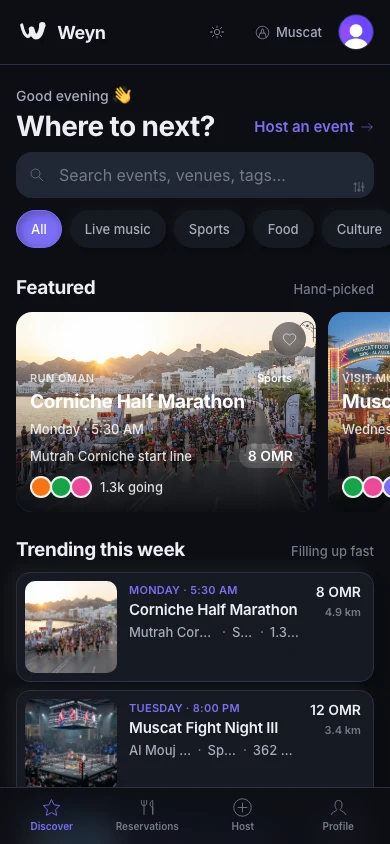
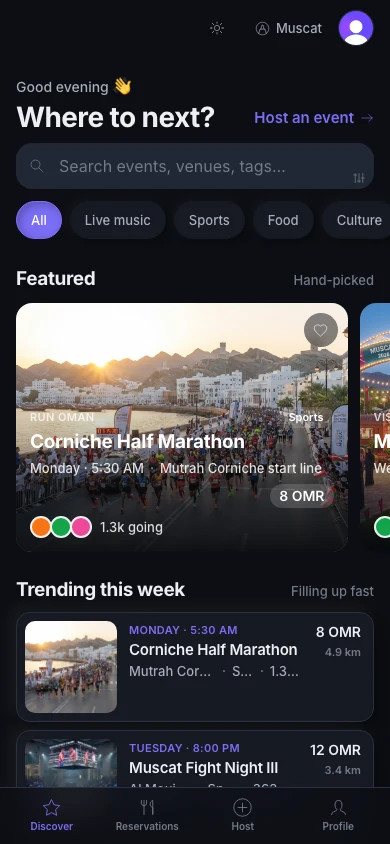
Remove redundant top branding bar, fix PWA bottom-space bug, enlarge featured card
- Drop the "Weyn" wordmark bar from Discover/Reservations — redundant once
  the app is installed to a homescreen, and it was costing real vertical
  space above the fold. Kept the essential controls (theme/city/profile) in
  a slimmer, unbranded bar.
- Fix .shell's bottom padding: it estimated the tab bar's height with a
  flat 76px + the FULL safe-area inset, while .tabs itself only reserves
  max(6px, inset - 12px) of that inset. On a notched/PWA-installed device
  this double-counted ~38px, showing as empty space below the tab bar.
  Rewrote the padding formula to mirror .tabs's real height exactly.
- Size the featured card to min(85vw, 360px) instead of a fixed 300px, and
  taller (4:3 instead of 3:2) — it was leaving too much of a second card
  peeking instead of reading as the one big "look at this" moment.
- Refresh the landing page's desktop/mobile screenshots to match.

diff --git a/src/index.css b/src/index.css
@@ -214,7 +214,13 @@ button { font-family: inherit; cursor: pointer; border: none; background: none; 
   min-height: 100%;
   position: relative;
   padding-top: env(safe-area-inset-top);
-  padding-bottom: calc(76px + env(safe-area-inset-bottom));
+  /* Must mirror .tabs's own height exactly (2px top pad + 48px tab content
+     + its own bottom pad formula) — using a flat estimate here left a real
+     gap below the tab bar on notched/PWA-installed devices, where
+     env(safe-area-inset-bottom) is non-zero and this padding was adding
+     the FULL inset on top of .tabs already trimming it down to
+     max(6px, inset - 12px). */
+  padding-bottom: calc(50px + max(6px, calc(env(safe-area-inset-bottom) - 12px)));
 }
 
 /* ---------- top bar ---------- flat, minimal-height, not a floating pill */
@@ -231,6 +237,10 @@ button { font-family: inherit; cursor: pointer; border: none; background: none; 
   -webkit-backdrop-filter: blur(14px) saturate(160%);
   border-bottom: 1px solid var(--hair);
 }
+/* No wordmark to balance against — the app's own name in its own title bar
+   is redundant once it's installed to a homescreen, so this just keeps the
+   essential controls (theme/city/profile) in a slimmer bar instead. */
+.topbar.no-brand { justify-content: flex-end; padding: 6px 16px; min-height: 40px; border-bottom: none; background: transparent; backdrop-filter: none; -webkit-backdrop-filter: none; }
 .brand { display: flex; align-items: center; gap: 9px; min-width: 0; }
 .brand .en { font-size: 17px; font-weight: 700; letter-spacing: -0.4px; }
 .brand .ar { font-family: "Noto Naskh Arabic", serif; font-size: 16px; color: var(--accent); }
@@ -415,9 +425,13 @@ button { font-family: inherit; cursor: pointer; border: none; background: none; 
 .ec-rail .ec-title { white-space: normal; display: -webkit-box; -webkit-line-clamp: 2; -webkit-box-orient: vertical; line-height: 1.25; }
 
 /* ---- large featured hero card ---- */
-.ec-feature { flex: 0 0 auto; width: 300px; }
+/* Sized to dominate the screen on mobile (min(85vw,...) instead of a fixed
+   300px) — the featured card is the app's one big "look at this" moment,
+   and a card that leaves 90px of a second card peeking read as timid next
+   to the reference design's near-full-bleed hero card. */
+.ec-feature { flex: 0 0 auto; width: min(85vw, 360px); }
 .ec-feature-cover {
-  aspect-ratio: 3/2; border-radius: 16px; overflow: hidden; position: relative;
+  aspect-ratio: 4/3; border-radius: 16px; overflow: hidden; position: relative;
   background-size: cover; background-position: center; background-color: var(--card-bg);
   display: grid; place-items: center;
 }

diff --git a/src/pages/Explore.tsx b/src/pages/Explore.tsx
@@ -4,7 +4,6 @@ import { api, CATS, type Cat, type Weyn, isTonight, isToday, isTomorrow, isThisW
 import { useAsync } from "../hooks";
 import { useAccount } from "../store";
 import Stub from "../components/Stub";
-import Logo from "../components/Logo";
 import ThemeToggle from "../components/ThemeToggle";
 import CityPill from "../components/CityPill";
 import { dismissSplash } from "../splash";
@@ -222,8 +221,7 @@ export default function Explore() {
 
   return (
     <>
-      <header className="topbar">
-        <Logo wordmark size={26} />
+      <header className="topbar no-brand">
         <div className="tb-right">
           <ThemeToggle />
           <CityPill />

diff --git a/src/pages/Reservations.tsx b/src/pages/Reservations.tsx
@@ -1,7 +1,6 @@
 import { useEffect, useMemo, useRef, useState } from "react";
 import { api, VENUE_CATS, type Venue, type VenueCategory } from "../api";
 import VenueCard from "../components/VenueCard";
-import Logo from "../components/Logo";
 import ThemeToggle from "../components/ThemeToggle";
 import CityPill from "../components/CityPill";
 
@@ -125,8 +124,7 @@ export default function Reservations() {
 
   return (
     <>
-      <header className="topbar">
-        <Logo wordmark size={26} />
+      <header className="topbar no-brand">
         <div className="tb-right">
           <ThemeToggle />
           <CityPill />